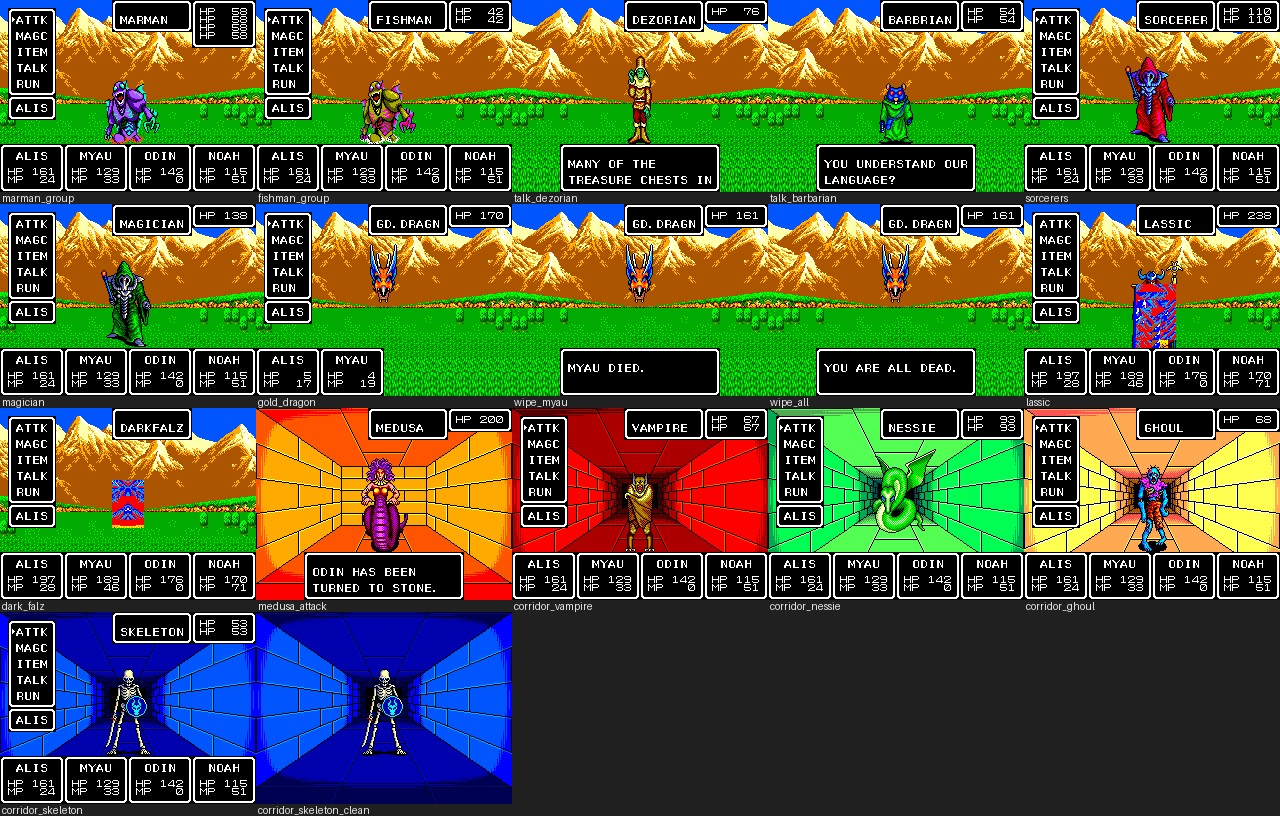
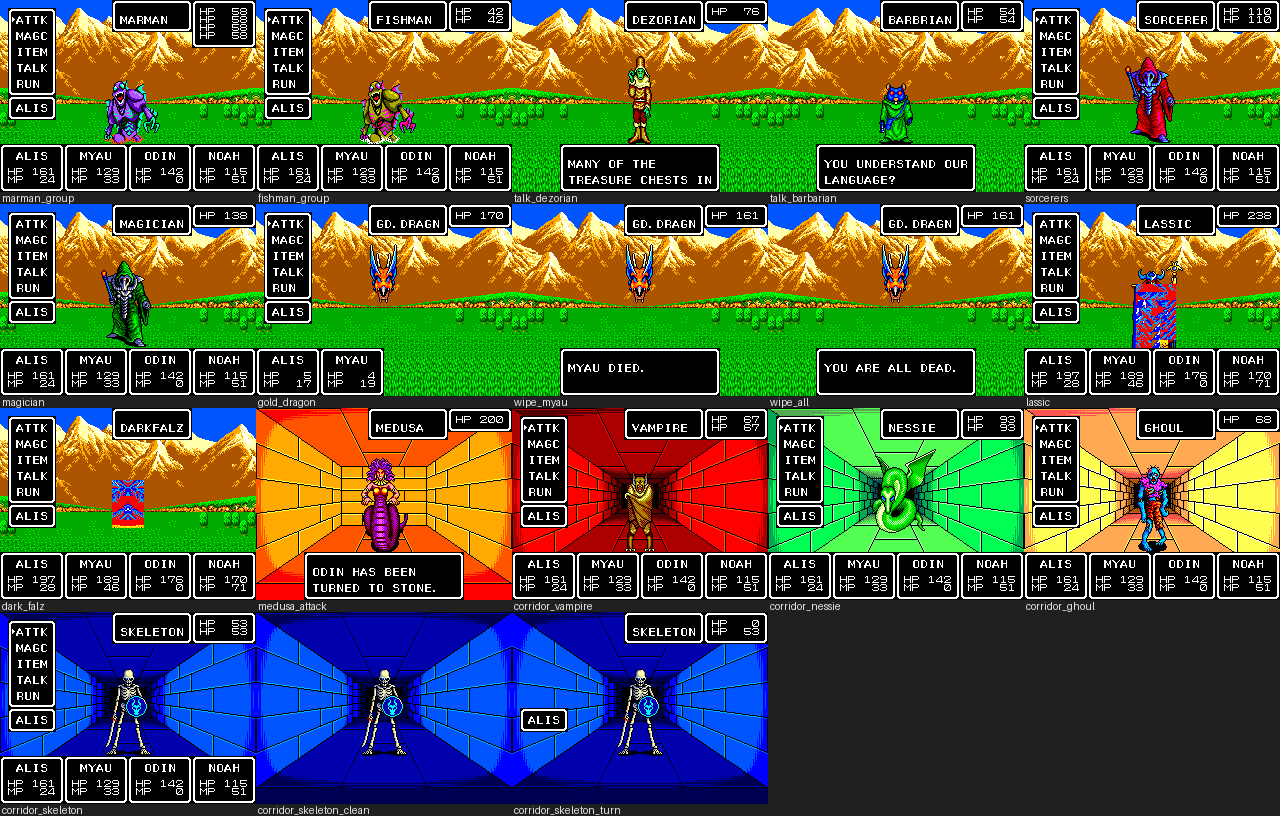
Phantasy Star (SMS): Skeleton battle shot mid-round (name box and monster box only)
The round after all four commands hides the command menu and party boxes;
the frame on Alis's turn matches the owner's reference picture. battles
18/18 from an empty cache; recipe in the playbook.

Claude-Session: https://claude.ai/code/session_011YfKeidMPFehpNXVkxX66i

Changed region(s): [[0.375, 0.7353, 0.625, 1.0]]

diff --git a/games/sms/phantasy-star/shots/battles/index.md b/games/sms/phantasy-star/shots/battles/index.md
@@ -1,6 +1,6 @@
 # Phantasy Star - shots: battles
 
-Platform sms, region na, model ntsc, ROM SHA-1 `257ca76ebcd54c75a414ca7ce968fa59ea42f150`. 17 shots. Contact sheet: [phantasy-star_sms_na_set_sheet.battles.png](phantasy-star_sms_na_set_sheet.battles.png). Originals here, 3x nearest-neighbour copies with the same names in `3x/`. File names: `<game>_<platform>_<region>_<category>_<id>.battles.png`.
+Platform sms, region na, model ntsc, ROM SHA-1 `257ca76ebcd54c75a414ca7ce968fa59ea42f150`. 18 shots. Contact sheet: [phantasy-star_sms_na_set_sheet.battles.png](phantasy-star_sms_na_set_sheet.battles.png). Originals here, 3x nearest-neighbour copies with the same names in `3x/`. File names: `<game>_<platform>_<region>_<category>_<id>.battles.png`.
 
 | id | category | caption | settled | image |
 |---|---|---|---|---|
@@ -21,5 +21,6 @@ Platform sms, region na, model ntsc, ROM SHA-1 `257ca76ebcd54c75a414ca7ce968fa59
 | corridor_ghoul | battle | A Ghoul in a long yellow corridor, a dozen squares of passage behind it | no | [png](phantasy-star_sms_na_battle_corridor_ghoul.battles.png) [3x](3x/phantasy-star_sms_na_battle_corridor_ghoul.battles.png) |
 | corridor_skeleton | battle | A Skeleton in a long blue corridor, the passage running on far behind it | no | [png](phantasy-star_sms_na_battle_corridor_skeleton.battles.png) [3x](3x/phantasy-star_sms_na_battle_corridor_skeleton.battles.png) |
 | corridor_skeleton_clean | battle | The Skeleton appears, one frame before the battle windows are drawn: no UI | no | [png](phantasy-star_sms_na_battle_corridor_skeleton_clean.battles.png) [3x](3x/phantasy-star_sms_na_battle_corridor_skeleton_clean.battles.png) |
+| corridor_skeleton_turn | battle | Alis's turn: only her name and the monster box; one Skeleton already at HP 0 | no | [png](phantasy-star_sms_na_battle_corridor_skeleton_turn.battles.png) [3x](3x/phantasy-star_sms_na_battle_corridor_skeleton_turn.battles.png) |
 
 Routes (replay with `tools/shoot.py`) are in `index.json` and `shots.txt`.

diff --git a/games/sms/phantasy-star/playbook.md b/games/sms/phantasy-star/playbook.md
@@ -309,3 +309,6 @@ does. Long corridors: 16:E4, 2B:ED, 18:EE, 25:E8 (all facing 0).
 When a dungeon encounter starts, the monster is drawn over the corridor first and the windows follow one per frame
 or two: exactly 5 frames after the step press that triggers the encounter (`up:1,w4,!`), the picture has no UI at
 all (`battles`: corridor_skeleton_clean). Find the frame with a frame-by-frame sample from the step before.
+During the round (after every member has a command) the command menu and the party boxes are gone: only the acting
+member's name box and the monster box stay. A frame on Alis's turn with the monster in normal colours (between its
+hit flashes): `battles` corridor_skeleton_turn (`b2,w60` x3, `b2,w180,!` after the encounter).
